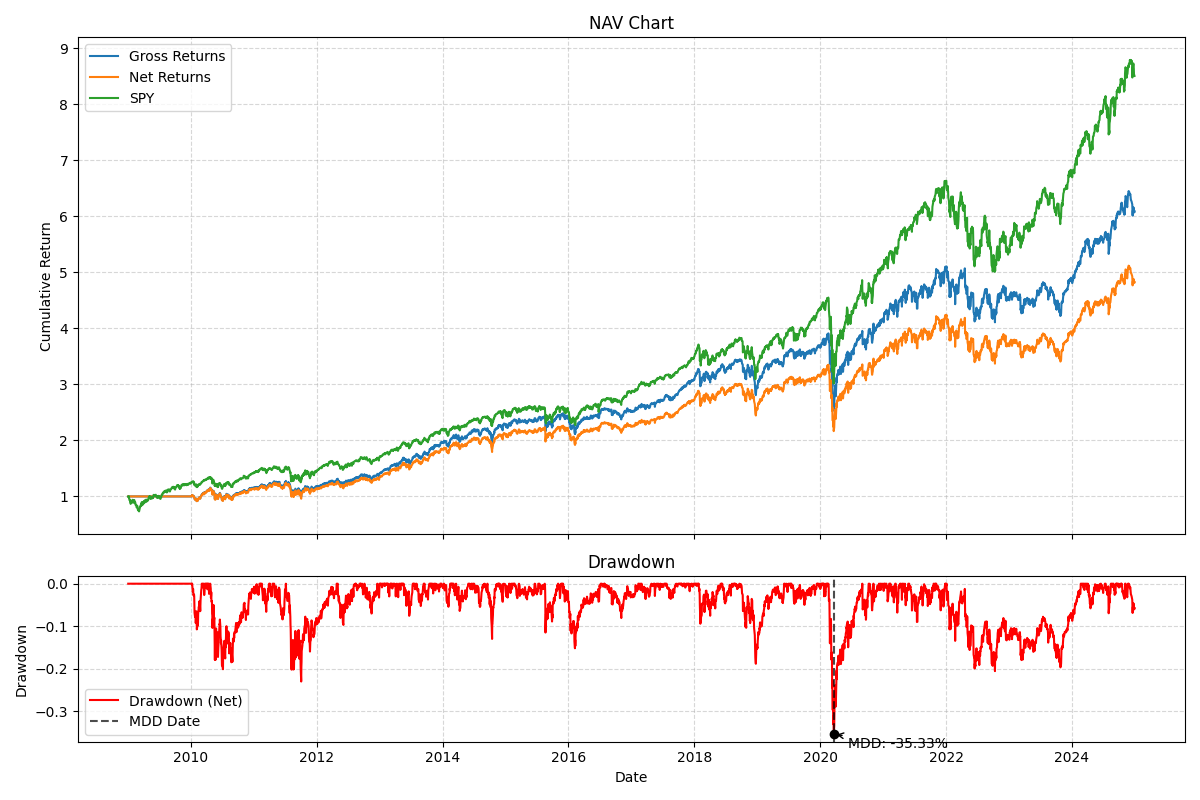
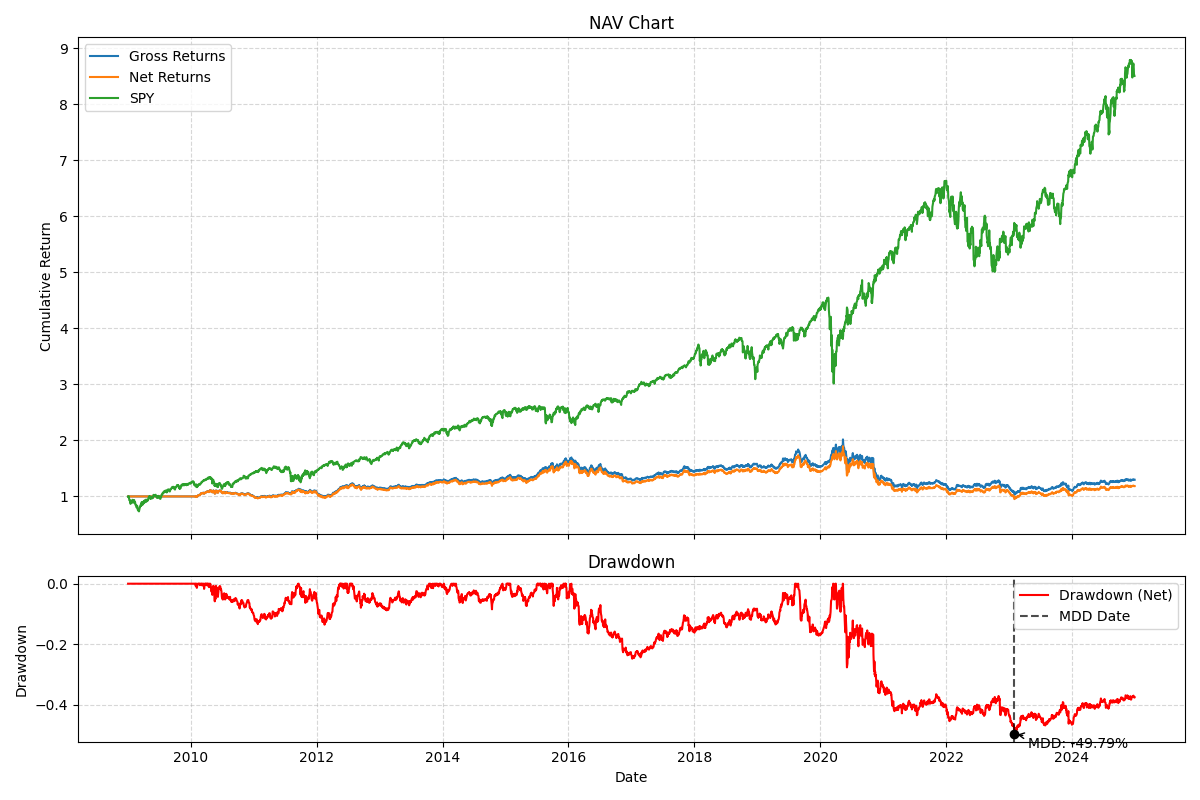
debug, important: sp_5oo_github_adaptor.py

diff --git a/scripts/run_backtester.py b/scripts/run_backtester.py
@@ -9,7 +9,7 @@ from momentum_backtester.costs import turnover_costs
 from momentum_backtester.analysis import Analysis
 
 def main() -> None:
-    data = load_sp500_data_wrds(start_year=2009, end_year=2024)
+    data = load_sp500_data_wrds(start_year=2023, end_year=2024)
     sp500_universes = data["sp500_universes"]
     retoto_df_wide = data["retoto_df_wide"]
     retctc_df_wide = data["retctc_df_wide"]
@@ -28,15 +28,15 @@ def main() -> None:
             lookback_months=11, 
             skip=1),
         ranker=cross_sectional_rank,
-        # aggregator=lambda ranks, sectors: long_short_top_bottom_sector_neutral(
-        #     ranks, 
-        #     sectors, 
-        #     top_pctg=20, 
-        #     bottom_pctg=20),
-        aggregator=lambda ranks, sectors: long_only(
+        aggregator=lambda ranks, sectors: long_short_top_bottom_sector_neutral(
             ranks, 
             sectors, 
-            top_pctg=20),
+            top_pctg=20, 
+            bottom_pctg=20),
+        # aggregator=lambda ranks, sectors: long_only(
+        #     ranks, 
+        #     sectors, 
+        #     top_pctg=20),
         costs=lambda w: turnover_costs(w, 10.0),
         rebal_freq="D",
     )
@@ -52,16 +52,16 @@ def main() -> None:
 
     # start analysis
     analysis = Analysis(output_dir="output")
-    analysis.cagr(results["net_returns"], 252)
-    analysis.annual_vol(results["net_returns"], 252)
-    analysis.sharpe(results["net_returns"], 0.04, 252)
-    analysis.max_drawdown(results["net_returns"])
-    analysis.nav_chart(results["gross_returns"], results["net_returns"], incl_spy=True, spy_daily=data["spy_daily"])
-    analysis.spy_chart(data["spy_daily"])
-    analysis.against_spy(results["net_returns"], data["spy_daily"])
-    analysis.rolling_beta(results["net_returns"], data["spy_daily"])
+    # analysis.cagr(results["net_returns"], 252)
+    # analysis.annual_vol(results["net_returns"], 252)
+    # analysis.sharpe(results["net_returns"], 0.04, 252)
+    # analysis.max_drawdown(results["net_returns"])
+    # analysis.nav_chart(results["gross_returns"], results["net_returns"], incl_spy=True, spy_daily=data["spy_daily"])
+    # analysis.spy_chart(data["spy_daily"])
+    # analysis.against_spy(results["net_returns"], data["spy_daily"])
+    # analysis.rolling_beta(results["net_returns"], data["spy_daily"])
     analysis.return_attr_sector(results["weights"], data["sector_df_wide"], results["retoto_df_wide"], results["gross_returns"])
-    analysis.total_turnover(results["weights"])
+    # analysis.total_turnover(results["weights"])
 
 if __name__ == "__main__":
     main()

diff --git a/src/momentum_backtester/analysis.py b/src/momentum_backtester/analysis.py
@@ -184,7 +184,7 @@ class Analysis:
         plt.grid(True, linestyle="--", alpha=0.6)
         plt.savefig(os.path.join(self.output_dir, "rolling_beta.png"))
     
-
+    # TODO: fix to make checksum = 0
     def return_attr_sector(
         self,
         weights: pd.DataFrame,
@@ -205,6 +205,27 @@ class Analysis:
         sector_stats = sector_date.value_counts()
         sector_ret_df = pd.DataFrame(index=w_ret.index, columns=sector_stats.index)
 
+        # # -----
+        # sector_ret_df['new'] = 0.0
+        # for date, row in w_ret.iterrows():
+        #     valid = row.dropna()
+        #     if valid.empty:
+        #         continue
+            
+        #     # drop valid if the sector_df_wide is nan
+        #     valid = valid[sector_date.notna()]
+        #     w_ret_sum = valid.sum()
+        #     sector_ret_df.at[date, 'new'] = w_ret_sum  # Use .at to update the DataFrame value
+        #     print(sector_ret_df.loc[date])
+
+        # sector_ret_df['-gross_ret'] = -gross_returns
+        # sector_ret_df['check_sum'] = sector_ret_df.sum(axis=1) # just as an internal note, this column should be 0 at any date
+        # # print where the check_sum is not 0
+        # print(np.abs(sector_ret_df[sector_ret_df['check_sum'] >= 0.0005]))
+        # assert False
+        # -----
+
+
         for date, row in w_ret.iterrows():
             valid = row.dropna()
             if valid.empty:
@@ -215,11 +236,10 @@ class Analysis:
                 # sector_ret is sum up
                 sector_ret = valid_names.sum()
                 # print("sector_ret of sector: ", sector, " is: ", sector_ret)
-                sector_ret_df.loc[date][sector] = sector_ret
+                sector_ret_df.at[date, sector] = sector_ret
         
         sector_ret_df['-gross_ret'] = -gross_returns
         sector_ret_df['check_sum'] = sector_ret_df.sum(axis=1) # just as an internal note, this column should be 0 at any date
-        # print(sector_ret_df)
 
         total_sector_ret_df = sector_ret_df.sum(axis=0)
         if verbose:

diff --git a/src/momentum_backtester/aggregation.py b/src/momentum_backtester/aggregation.py
@@ -31,6 +31,19 @@ def long_short_top_bottom_sector_neutral(
     top_pctg: int = 20,
     bottom_pctg: int = 20,
 ) -> pd.DataFrame:
+    """
+    Construct a sector-neutral long-short portfolio by selecting the top and bottom
+    percentage of stocks within each sector based on their cross-sectional ranks.
+
+    For each date:
+        - Within each sector, select the top `top_pctg` percent (lowest rank values)
+          and bottom `bottom_pctg` percent (highest rank values) of stocks.
+        - Assign equal positive weights to the top stocks and equal negative weights
+          to the bottom stocks, such that the sum of long and short weights are each
+          normalized to 1 and -1, respectively, across all selected stocks.
+        - Stocks not in the top or bottom groups receive zero weight.
+        - The process is repeated independently for each sector, ensuring sector neutrality.
+    """
     weights = pd.DataFrame(0.0, index=ranks.index, columns=ranks.columns)
     for date, row in ranks.iterrows():
         valid = row.dropna()
@@ -39,10 +52,12 @@ def long_short_top_bottom_sector_neutral(
         w = pd.Series(0.0, index=row.index)
 
         sector_date = sectors.loc[date]
+
         sector_stats = sector_date.value_counts()
+        sector_list = sector_stats.index
 
         top, bot = [], []
-        for sector in sector_stats.index:
+        for sector in sector_list:
             valid_names = valid[sector_date == sector]
 
             nsmallest = int(top_pctg/100 * len(valid_names))

diff --git a/src/momentum_backtester/adapters/sp500_github_adapter.py b/src/momentum_backtester/adapters/sp500_github_adapter.py
@@ -78,7 +78,7 @@ def load_sp500_data_wrds(start_year: int, end_year: int) -> dict:
     retctc_df_wide = retctc_df_wide.ffill(limit = 3)
     adjclose_df_wide = adjclose_df_wide.ffill(limit = 3)
     adjopen_df_wide = adjopen_df_wide.ffill(limit = 3)
-    sector_df_wide = sector_df_wide.ffill(limit = 3)
+    sector_df_wide = sector_df_wide.ffill() # important to not use limit here
 
     return {
         "sp500_universes": sp500_universes,
